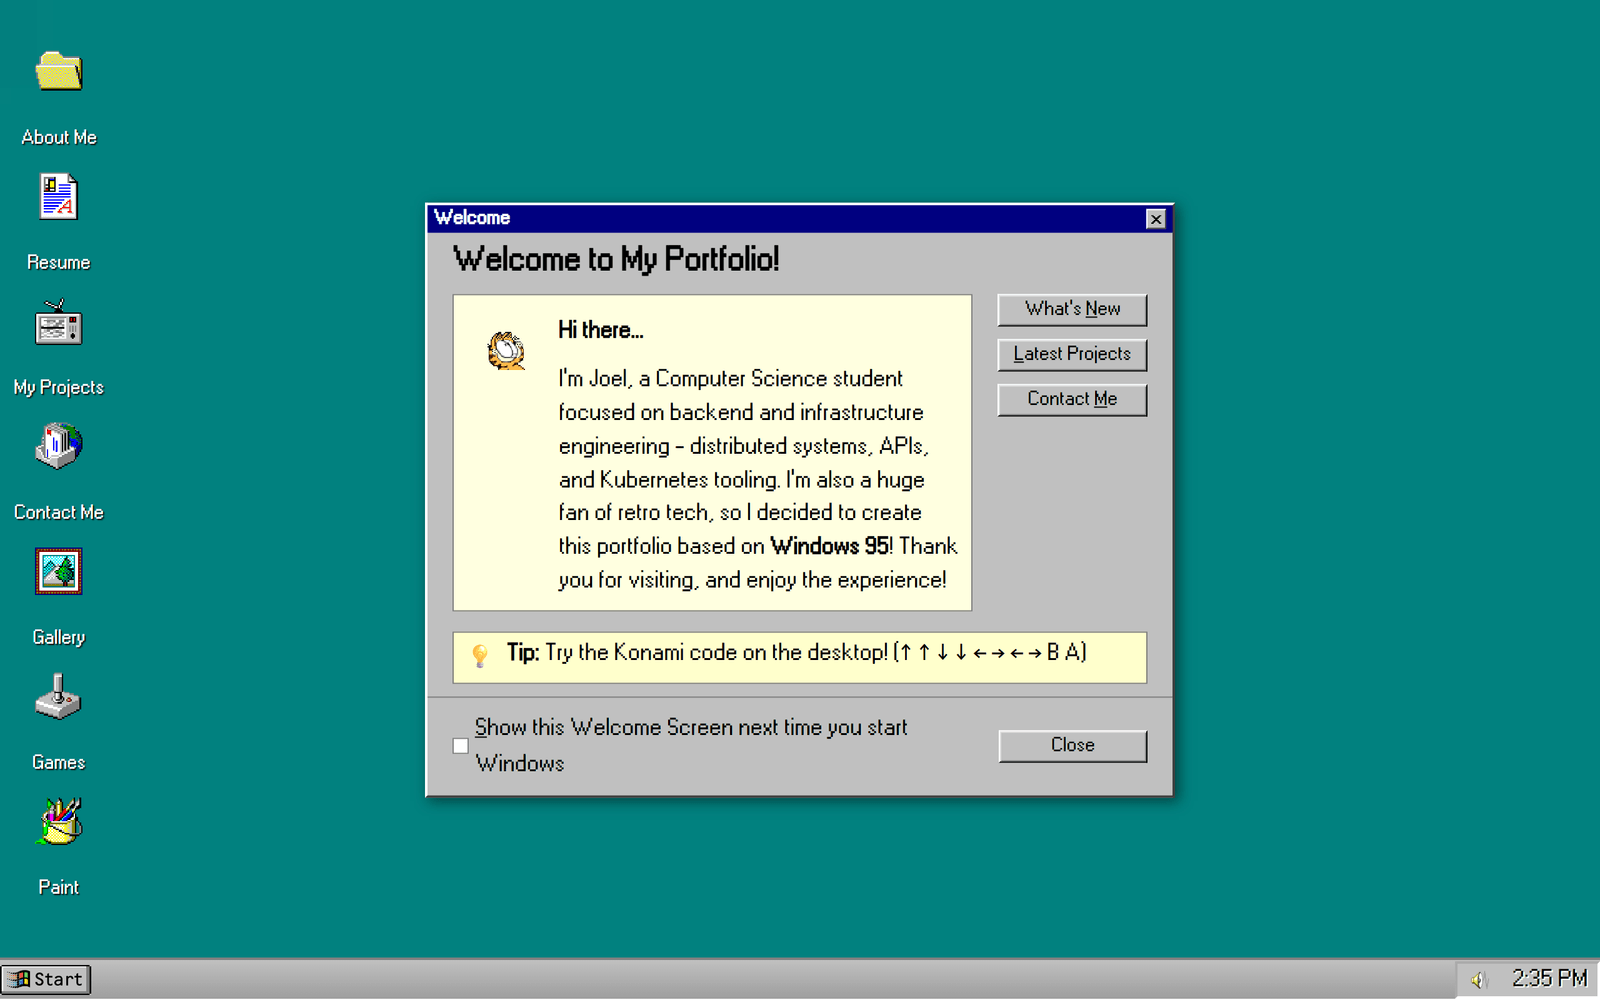
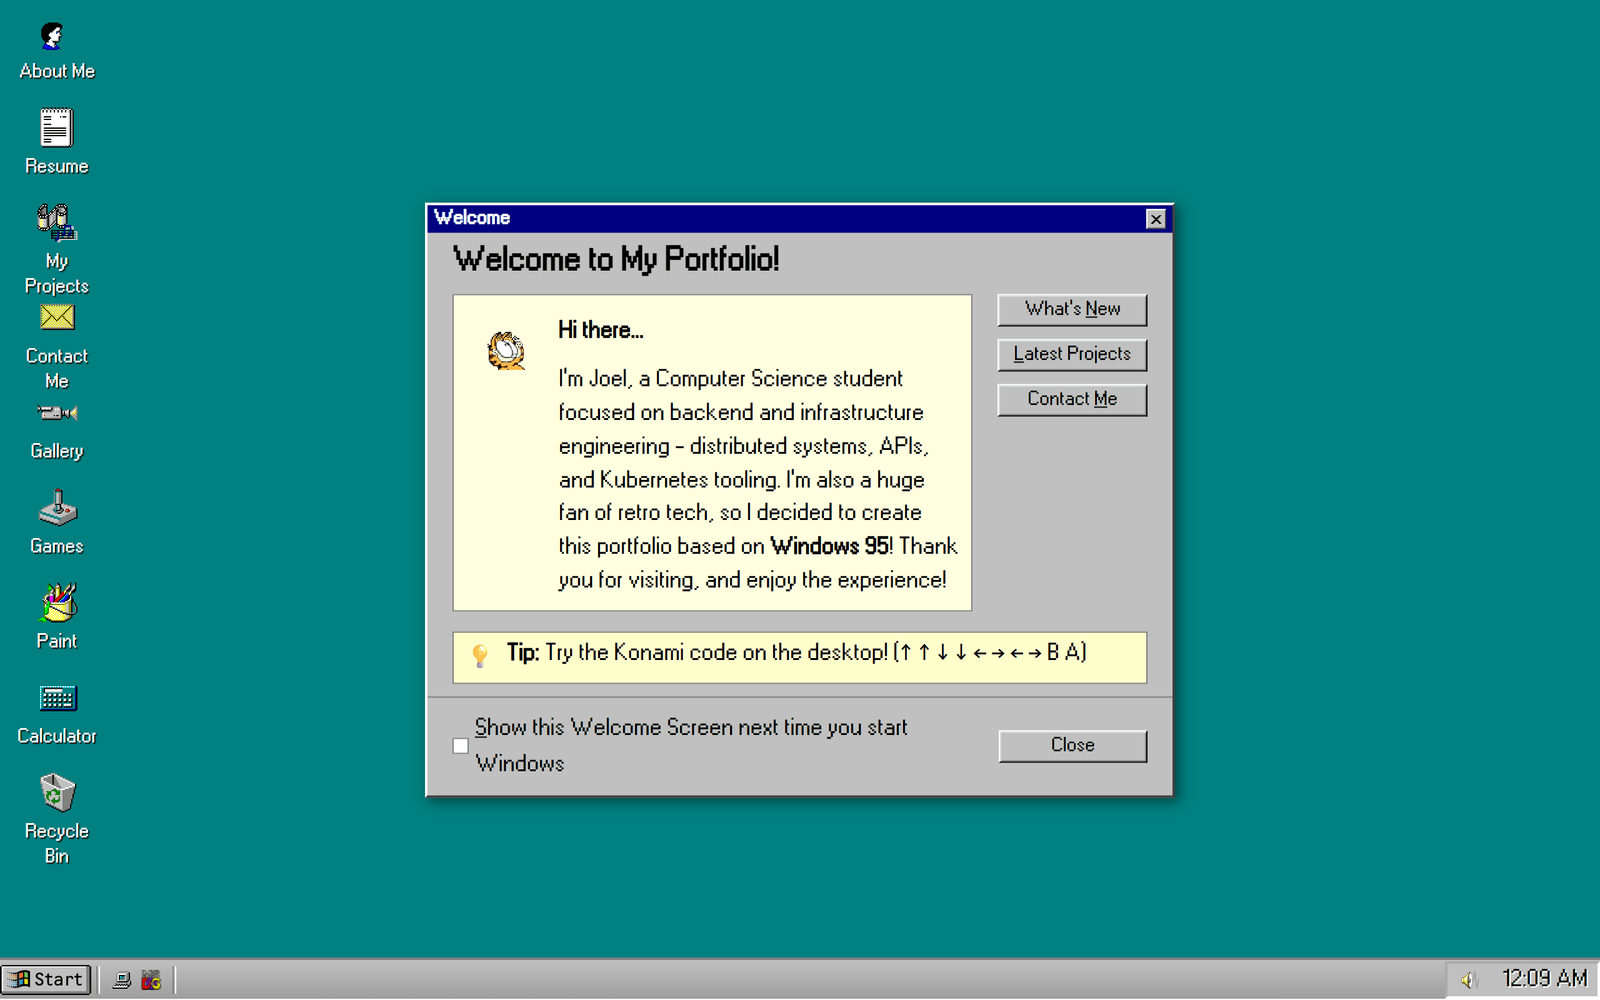
Reshoot the README from the current build
Every screenshot in the README predated most of what the desktop now does:
the games were still a card grid, the gallery was still a modern photo grid,
the resume had no ruler or status bar, and the icons were the old soft
oversized renders. All nine are recaptured from the current build at 2x and
squeezed down to 784KB for the set.

The copy follows. Eight games rather than five, with FreeCell's real deal
numbers and Minesweeper's LED panel called out, the projects page and
Outlook Express each given their own section, and the gallery described as
what it now is: an Explorer folder in Thumbnail view over C:\My Pictures.

Things worth finding grew too. The DOS prompt, Notepad sharing that drive,
dragging to the Recycle Bin, the tray volume and the six on six battle were
all in the build and none of them were mentioned.

diff --git a/README.md b/README.md
@@ -28,7 +28,7 @@ No hero section. No parallax. Just a teal desktop, a Start menu, and a résumé 
 
 </div>
 
-Not a PDF embed. A working Word 95 window with a live menu bar, formatting toolbar, and an editable document. Change the font, resize the text, insert a table, run a spell check.
+Not a PDF embed. A working Word 95 window: two toolbars, a ruler with indent markers, a status bar that tracks the caret, and an editable page sitting on the grey workspace. Change the font, resize the text, insert a table, run a spell check, zoom the page.
 
 <div align="center">
 <img src=".github/assets/resume.png" alt="The résumé rendered inside a Microsoft Word 95 window" width="90%" />
@@ -38,14 +38,20 @@ Not a PDF embed. A working Word 95 window with a live menu bar, formatting toolb
 
 <div align="center">
 
-## Five games, all playable
+## Eight games, all playable
 
 </div>
 
-Chess with a real opponent. Minesweeper with three difficulties. Tetris, Solitaire, and Pong. Every one runs in its own draggable window, and every one keeps score.
+Solitaire, Minesweeper, FreeCell, Hearts and Reversi, the ones Windows actually shipped, plus Chess, Tetris and Pong. They live in a folder of program icons, the way they did.
 
 <div align="center">
-<img src=".github/assets/games.png" alt="The Games window listing Chess, Solitaire, Tetris, Minesweeper and Pong" width="90%" />
+<img src=".github/assets/games.png" alt="The Games folder, eight program icons in an Explorer window" width="90%" />
+</div>
+
+FreeCell knows its 32,000 deals by number, and they are the real ones: game 617 here is the 617 everyone remembers. Hearts plays four hands with passing and Shooting the Moon. Minesweeper has the seven-segment counters, the smiley that reacts, and best times that survive a refresh.
+
+<div align="center">
+<img src=".github/assets/minesweeper.png" alt="Minesweeper with its LED counters and smiley button" width="90%" />
 </div>
 
 ###
@@ -66,14 +72,44 @@ Pencil, brush, eraser, fill, shapes, the colour palette along the bottom. It dra
 
 <div align="center">
 
-## A gallery, and a profile straight out of 2004
+## The projects are a video site from 2005
 
 </div>
 
+Every project is a video page: view counts, star ratings, related videos down the side, and comment threads where people ask the awkward questions.
+
+<div align="center">
+<img src=".github/assets/projects.png" alt="The projects window styled as YouTube in 2005" width="90%" />
+</div>
+
+###
+
+<div align="center">
+
+## Mail that behaves like mail
+
+</div>
+
+Contact is Outlook Express: folder tree, message list, reading pane, and a compose window that actually sends.
+
+<div align="center">
+<img src=".github/assets/contact.png" alt="The contact window styled as Outlook Express" width="90%" />
+</div>
+
+###
+
+<div align="center">
+
+## A gallery, and a profile
+
+</div>
+
+The photos sit in `C:\My Pictures` as an Explorer folder in Thumbnail view, one subfolder per event.
+
 <table align="center">
 <tr>
-<td width="50%"><img src=".github/assets/gallery.png" alt="The photo gallery window" /></td>
-<td width="50%"><img src=".github/assets/about.png" alt="The About Me window styled as theFacebook" /></td>
+<td width="50%"><img src=".github/assets/gallery.png" alt="The gallery as an Explorer window in Thumbnail view" /></td>
+<td width="50%"><img src=".github/assets/about.png" alt="The About Me window" /></td>
 </tr>
 </table>
 
@@ -89,10 +125,14 @@ Pencil, brush, eraser, fill, shapes, the colour palette along the bottom. It dra
 
 | | |
 | --- | --- |
-| **Konami code** | ↑ ↑ ↓ ↓ ← → ← → B A, anywhere on the desktop |
+| **Konami code** | ↑ ↑ ↓ ↓ ← → ← → B A, anywhere on the desktop, for a six on six battle |
+| **MS-DOS Prompt** | fourteen commands over a virtual `C:\` drive |
+| **Notepad** | opens and saves to that same drive, and DOS can read what you wrote |
 | **Blue Screen of Death** | it's in there, and it's faithful |
 | **Display Properties** | five wallpapers and working screen savers |
-| **Right-click** | the desktop, the icons, everywhere |
+| **Drag to the Recycle Bin** | and File > Restore puts it back where it was |
+| **The tray speaker** | a volume slider that governs every sound |
+| **Right-click** | the desktop, the icons, the Solitaire table, everywhere |
 
 </div>
 
